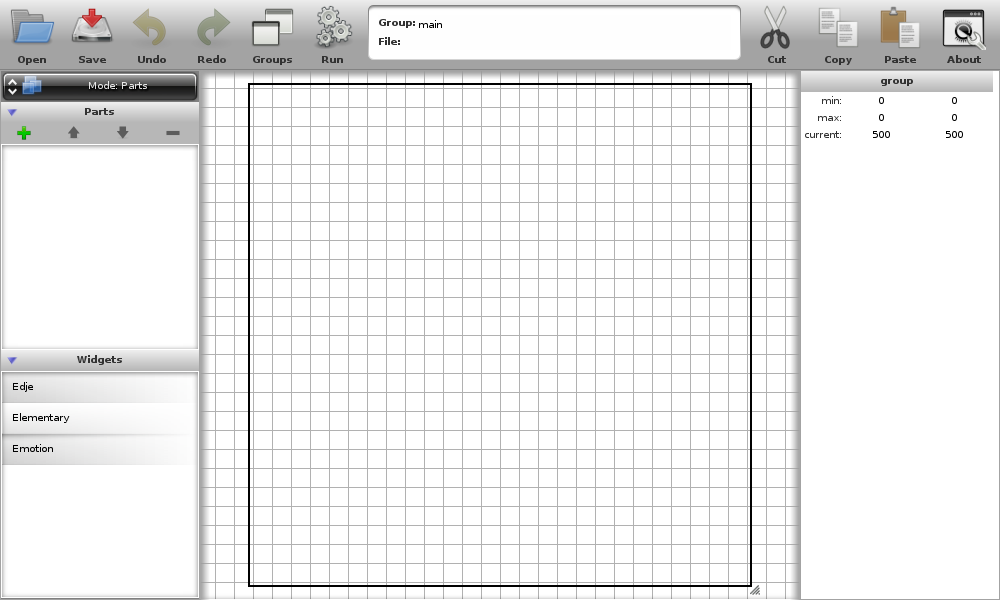
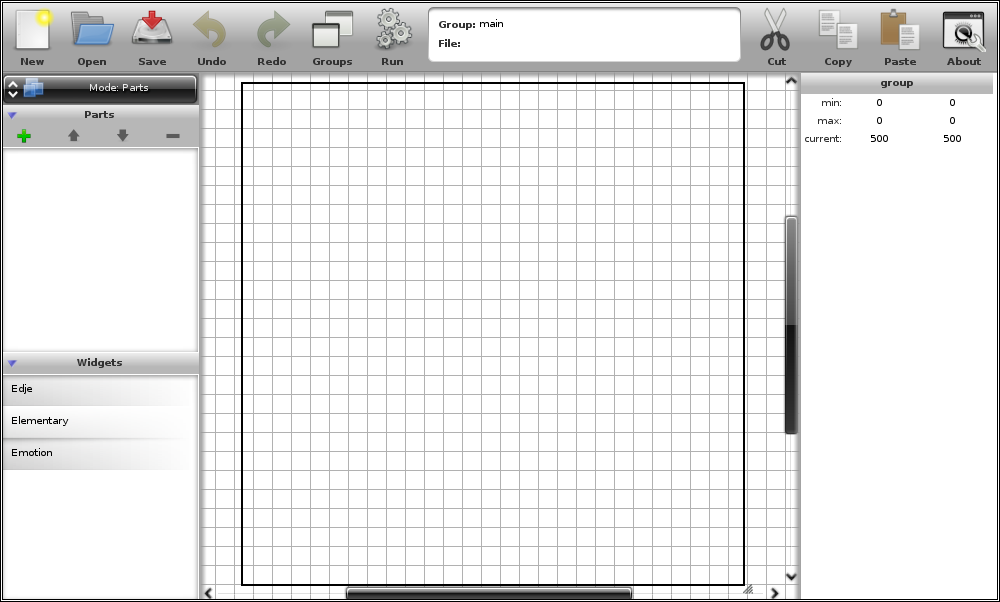
Batch of documentation fixes.
git-svn-id: http://svn.enlightenment.org/svn/e@55381 7cbeb6ba-43b4-40fd-8cce-4c39aea84d33

Changed region(s): [[0.0, 0.0, 1.0, 1.0], [0.93, 0.21, 0.961, 0.24], [0.868, 0.21, 0.899, 0.24]]

diff --git a/trunk/editje/doc/editje_manual.tex b/trunk/editje/doc/editje_manual.tex
@@ -52,7 +52,7 @@ pictured in figure \ref{fig:new_file}.
 \begin{figure}[h!]
   \centering
   \includegraphics[width=0.87\textwidth]{images/new_file.png}
-  \caption{``New file'' group main}
+  \caption{A new file and its group ``main''}
   \label{fig:new_file}
 \end{figure}
 
@@ -93,17 +93,20 @@ Finally, there's the button \GUIButton{``New''}, found in this
 dialog's first page. As you may imagine, it's going to lead you to a
 third page, asking for a name to the group to be created. From there,
 you may desist and go back one page or, if sure, create and start
-editing the fresh new group. This group will also be 500x500 sized and
-have no parts.
+editing the fresh new group. This group will also be 500$\times$500
+sized and have no parts.
 
 Finally, there is a third way of invoking Editje, which is:
 
 \begin{verbatim}
-editje-bin <filename>:<groupname>
+editje-bin <filename> <groupname>
 \end{verbatim}
 
 This is a shortcut to have it opened directly on the editing window,
 with the group named ``\texttt{groupname}'' selected for edition.
+
+Enter ``\texttt{editje-bin -h}'' in the command line for a thorough
+explanation of the the editor's usage.
 
 \section{Editje's Window}
 
@@ -125,7 +128,14 @@ them:
 
 \begin{description}
 \item[1 -- Actions on file and group] The first action,
-  \GUIIcon{``Open''}, will show the screen picture in \ref{fig:open_file}.
+  \GUIIcon{``New''}, will open a new Editje window, editing a fresh
+  new file, still residing in memory only. To the current date, this
+  new file starts with just one group, named ``main'', with no parts
+  and with a default size of 500$\times$500 pixels. Group templates
+  will come as an option to start new files, shortly.
+
+ The second action, \GUIIcon{``Open''}, will show the screen picture
+ in \ref{fig:open_file}.
   \begin{figure}[h!]
     \centering
     \includegraphics[width=0.87\textwidth]{images/open_file.png}
@@ -139,32 +149,27 @@ them:
   \GUICheckbox{``filter extensions''} checkbox will only list files
   whose extension match \texttt{.edc} or \texttt{.edj}.
 
-  %FIXME: the fscking \times, instead of 'x' (not working)
   If a (valid) file on the list on the right is selected, you may click
   the \GUIButton{``Ok''} button and Editje will open it and lead you to
-  its main window. The \GUIButton{``New''} button will ask you for a
-  name to a \emph{new} file to work on. Just give it a name and hit
-  \GUIButton{``Ok''} to start editing it. To the current date, this new
-  file starts with just one group, named ``main'', with no parts and
-  with a default size of 500x500 pixels. Group templates will come as an
-  option to start new files, shortly.
+  its main window.
 
   When you select the file to operate on, you'll get \emph{another}
-  independent instance of a main window with an opened file. It's
+  independent instance of a main window with an opened file. In both
+  this case and the \GUIIcon{``New''} button one, the new window is
   \emph{not} another instance of the editor, though, and the process
   will only finish when the last editor's window is closed.
 
-  The second action, \GUIIcon{``Save''}, naturally tells the editor to
-  save back the modifications on the file under edition.
-  If you are editing new file, the save action
-  \GUIIcon{``Save''}, will show the screen picture in \ref{fig:save_file}.
+  The third action, \GUIIcon{``Save''}, naturally tells the editor to
+  save back the modifications on the file under edition. If you are
+  editing a new file, the action will lead you to the dialog depicted
+  in figure \ref{fig:save_file}.
   \begin{figure}[h!]
     \centering
     \includegraphics[width=0.87\textwidth]{images/save_file.png}
     \caption{``Save file'' dialog}
     \label{fig:save_file}
   \end{figure}
-  If the file being edited is a already existing opened file, as said
+  If the file being edited is an already existing file, as said
   before, they get saved in the same format they were opened with, be
   it \texttt{.edc} or \texttt{.edj}, and no dialog is shown.
 
@@ -175,8 +180,6 @@ them:
   this stage it \emph{won't} ask if you want to save the modifications
   on the group being left, so make sure you have them saved before
   switching groups.
-
-% undo/redo
 
   The next two actions do what is expected: \GUIIcon{``Undo''} and
   \GUIIcon{``Redo''} actions you took while editing your
@@ -270,10 +273,10 @@ be described better on section \ref{sec:part_editing}.
   lists all the parts composing the group being edited and has also
   some actions on them. These actions will be described better later
   in the document. On the bottom of this area, one sees the \emph{list
-    of available widgets/parts}. From this place, you'll see all types
-  of GUI elements Editje supports. Interaction with this list is one
-  of the ways of telling the editor to add new widgets to the group
-  under edition.
+    of available widgets/parts to populate groups}. From this place,
+  you'll see all types of GUI elements Editje supports. Interaction
+  with this list is one of the ways of telling the editor to add new
+  widgets to the group under edition.
 
 \end{description}
 
@@ -307,9 +310,10 @@ wish\footnote{Editje will complain only if that name belongs to
   another part already present on the group under edition.}. The
 ``External Widget'' type is special: it's a meta type which will let
 you select objects from external modules (exporting edje objects) as
-parts of your interface. Currently, the only module supported is
-Elementary, a widget library which has some of its widgets with
-properties externalized to edje-edition.
+parts of your interface. Currently, the only two modules supported are
+\emph{Elementary}, a widget library which has some of its widgets with
+properties externalized to edje-edition, and \emph{Emotion}, which
+provides an element for media playback.
 
 Then, if you click over \GUIButton{``External Widget''}, the bottom
 part of the dialog box will show two lists side-by-side. The left one
@@ -343,11 +347,10 @@ you'll see it populated with our new part.
   \label{fig:new_rectangle}
 \end{figure}
 
-%FIXME: the fscking \times, instead of 'x' (not working)
 The region with number 4 is the actual new rectangle object. By
 default, Editje will put it centered in the group's region, with half
-of its size and colored with transparent green, as seen on region 7,
-the ``part state'' collapsable property group (check out the
+of its size and colored with solid white, as seen on region 7, the
+``part state'' collapsable property group (check out the
 \GUILabel{``current''} and \GUILabel{``align''} labels). Note that all
 the collapsable property groups are expanded on figure
 \ref{fig:new_rectangle}.
@@ -356,7 +359,9 @@ Note, also, the eight black squares over \texttt{Rectangle01}'s
 corners. They, together with the fact that \texttt{Rectangle01} is
 highlighted in the parts list, mean that that specific object is
 \emph{selected} in Editje. These squares are also where the user is
-going to click to visually \emph{resize} the selected object.
+going to click to visually \emph{resize} the selected
+object\footnote{Note how the mouse cursor changes while over those
+  squares, indicating this action.}.
 
 The four squares on the \emph{middle of the part's edges}, when
 clicked and dragged, will grow or shrink it on the perpendicular axis
@@ -589,6 +594,9 @@ figure \ref{fig:overlap_white}.
   \label{fig:overlap_clipped}
 \end{figure}
 
+%TODO: document ``scale'' property, take new screenshot involving the
+%part properties collapsable group
+
 To finish the ``part properties'' collapsable group, we have the
 \GUIEditable{``mouse events''} and \GUIEditable{``repeat events''}
 properties. These are true/false ones which will set the same
@@ -640,7 +648,7 @@ being resized.
   \label{fig:rectangle_rel1rel2}
 \end{figure}
 
-Roughly, properties seem inside regions 3, 4 and 5 have the exact
+Roughly, properties seen inside regions 3, 4 and 5 have the exact
 meaning of the homonymous building blocks found in \texttt{.edc}
 files.  Their meanings should be straightforward to readers with a
 minimal prior knowledge of Edje Data Collections. If you're not
@@ -650,7 +658,7 @@ the ones willing to skip it, we quote that text's part on object
 relative positioning on appendix \ref{app:edje_pos}.
 
 Figures \ref{fig:visibility_false} to \ref{fig:rel_drag} illustrate
-some effects one gets by modifying some of the properties seem on
+some effects one gets by modifying some of the properties seen on
 figure \ref{fig:part_state_group}.
 
 \begin{figure}[h!]
@@ -720,7 +728,7 @@ the name of the just created state displayed. Customize its properties
 as you wish, then.
 
 Starting from the state where we have our default
-``\texttt{Rectangle01}'' (figure \ref{fig:new_rectangle01}), let's
+``\texttt{Rectangle01}'' (figure \ref{fig:new_rectangle}), let's
 create another state, for which we change the red channel of the
 part's color to 255, making it transparent yellow (see figure
 \ref{fig:new_state}).
@@ -732,12 +740,19 @@ part's color to 255, making it transparent yellow (see figure
   \label{fig:new_state}
 \end{figure}
 
+\begin{figure}[h!]
+  \centering
+  \includegraphics[width=0.28\textwidth]{images/state_actions.png}
+  \caption{State actions}
+  \label{fig:state_actions}
+\end{figure}
+
 Then, click on the state selection icon again and select, in the list,
 the state ``\texttt{default 0.0}''. You'll be presented with the
 dialog seen on figure \ref{fig:state_actions}. The \GUIButton{``Change
   to''} button, naturally, is the way to switch to the selected state.
 \GUIButton{``Reset to''} will copy all the properties of the selected
-state into the same ones of the \emph{current} one. If you choose to
+state into the same ones of the \emph{current} state. If you choose to
 click on it from the example we suggested for this section, you'll see
 state ``\texttt{default01 0.0}'' have its color property reset to
 transparent green. Finally, \GUIButton{``Delete''} will remove the
@@ -788,13 +803,45 @@ text parts, called \GUILabel{``text''} (region 2 in figure
 
 \begin{description}
 \item[\GUIEditable{``text''}:] The actual text to display.
-\item[\GUIEditable{``font''}:] The font to render the text from.
+\item[\GUIEditable{``font''}:] The font to render the text from. You
+  may type in directly the font family's name in the entry in the
+  left, or choose it through a dialog by clicking over the ``Aa''
+  icon. The latter will present you the \emph{font addition wizard},
+  whose screen is seen in figure \ref{fig:font_dialog_choose}. There
+  will be two lists:
+  \begin{description}
+    \item[Embedded fonts] Fonts which are, naturally, embedded in the
+      file under edition.
+    \item[System Fonts] Fonts made available by your operating system.
+  \end{description}
+  If you select any item from either list, you'll get to a \emph{font
+    preview} page in the wizard, depicted in figure
+  \ref{fig:font_preview}. One can only delete embedded fonts,
+  naturally, when they will be taken away completely from the file. To
+  select the font in question to the text part you called the dialog
+  from, hit the \GUIButton{``Use''} button. The \GUIButton{``Add
+    New''} button one sees on the previous page leads you to a file
+  choose dialog similar to the ones we've seen so far in Editje. After
+  you choose a file, that font will be copied into the file under
+  edition itself.
 
-%TODO: introduce the fonts wizard, when it's complete
+\begin{figure}[h!]
+  \centering
+  \includegraphics[width=0.8\textwidth]{images/font_selection.png}
+  \caption{Font selection}
+  \label{fig:font_dialog_choose}
+\end{figure}
+
+\begin{figure}[h!]
+  \centering
+  \includegraphics[width=0.8\textwidth]{images/font_preview.png}
+  \caption{Font preview}
+  \label{fig:font_preview}
+\end{figure}
 
 \item[\GUIEditable{``size''}:] The text size.
 \item[\GUIEditable{``fit''}:] When any of these entries is set to
-  ``True'', Editje will resize the text, so that it to fits in it's
+  ``True'', Editje will resize the text, so that it fits in its
   container, in the respective axis (the \GUIEditable{``size''} is
   ignored, if this property is enabled). Both are disabled by default.
 \item[\GUIEditable{``align''}:] Changes the alignment of the actual
@@ -886,24 +933,25 @@ practically the same as of rectangle parts.
 
 Group parts also aggregate child edje objects, but in a ``hardcoded''
 manner: one does it while declaring an interface and that ``hole'''s
-contents \emph{can't} be swapped at run time. Editje, currently,
-displays nicely group parts it finds inside the files it was opened
-with, but its management capabilities on group parts is minimal (just
-moving, resizing, etc) and it won't create \emph{new} group parts.
+contents \emph{can't} be swapped at run time. When you insert a new
+group part, just type the name of the inner group you want to put
+inside at the \GUILabel{``source''} property, seen at part properties
+for group parts.
 
 \subsection{External Widgets: Elementary}
 %FIXME: explain briefly what each kind of widget is/does!
 
-By now, Elementary is the only external module whose widgets have been
-made available to edje-edition as common part objects. Region 6 of
-figure \ref{fig:new_rectangle}, the list of available widgets/parts,
-is a quick way of adding these widgets into the group. The ``Edje''
-entry of that list will lead to a list of the ``common'' UI elements
-one gets -- the ones implemented directly on the evas or edje
-libraries. The ``Elementary'' one, naturally, will list (some) widgets
-provided by that library (see figure \ref{fig:elm_widgets}). Each list
-entry has an icon illustrating the respective widget. Clicking over
-one of them will add that kind of object to the group under edition.
+Elementary, as said before, is one external module whose widgets have
+been made available to edje-edition as common part objects. Region 6
+of figure \ref{fig:new_rectangle}, the list of available
+widgets/parts, is a quick way of adding these widgets into the
+group. The ``Edje'' entry of that list will lead to a list of the
+``common'' UI elements one gets -- the ones implemented directly in
+the Evas or Edje libraries. The ``Elementary'' one, naturally, will
+list (some) widgets provided by that library (see figure
+\ref{fig:elm_widgets}). Each list entry has an icon illustrating the
+respective widget. Clicking over one of them will add that kind of
+object to the group under edition.
 
 \begin{figure}[h!]
   \centering
@@ -913,9 +961,9 @@ one of them will add that kind of object to the group under edition.
 \end{figure}
 
 In what follows, we document the specific properties one finds for
-each of those widget parts. All of them have, as extra tabs in the
-property collapsable groups, one (and only one) common tab, which is
-named \GUILabel{``external''}.
+\emph{some} of those widget parts. All of them have, as extra tabs in
+the property collapsable groups, one (and only one) common tab, which
+is named \GUILabel{``external''}.
 
 \subsubsection{Button}
 
@@ -931,9 +979,12 @@ them:
   \item[\GUIEditable{``icon'':}] This is the icon object to be
     displayed over the button. Elementary's standard set of icons is
     supported and using them is accomplished by entering their name
-    strings in this entry. In figure \ref{fig:new_button}, we have
-    used the ``close'' one, which is that ``X''-like image.
-    %TODO: group parts supported as icon?
+    strings in this entry. Freedesktop.org (FDO) icon names are also
+    valid and the respective image lookup will take place in your
+    system. In figure \ref{fig:new_button}, we have used the ``close''
+    one, which is that ``X''-like image. Finally, other groups present
+    in the file under edition can have their names declared in this
+    property's entry and one gets it bound to the button's icon.
 \end{description}
 
 The part's type has also been highlighted: note that all external
@@ -959,7 +1010,6 @@ being them:
   \item[\GUIEditable{``icon''}:] Has also the meaning you are familiar
     with. In figure \ref{fig:new_checkbox}, we have used the ``file''
     one.
-    %TODO: group parts supported as icon?
   \item[\GUIEditable{``state''}:] This is a boolean property telling
     whether the checkbox should be at checked or unchecked
     state. Clicking on it would draw or erase the tip mark inside the
@@ -1008,8 +1058,6 @@ being them:
 \end{figure}
 
 \subsubsection{Text Entry}
-%FIXME: "text:" property was killed from editje. not updating 'till it gets
-%fixed
 
 Figure \ref{fig:new_entry} shows a recently created text entry
 part. The part's specific properties are highlighted on the figure,

diff --git a/trunk/editje/editje/filewizard.py b/trunk/editje/editje/filewizard.py
@@ -288,7 +288,7 @@ class FontSelectionWizard(FileSelectionWizard):
             #if local is True, we'll get fonts from Edje
             #if local is False, we'll get fonts from System
             if local:
-                message = "Edje Fonts"
+                message = "Embedded Fonts"
                 self._edje_fonts = self._file_list_cb(local)
                 self._files += self._edje_fonts
             else:
@@ -312,7 +312,7 @@ class FontSelectionWizard(FileSelectionWizard):
                                             icon_get_func=None,
                                             state_get_func=None)
 
-        if item_data == "Edje Fonts":
+        if item_data == "Embedded Fonts":
             self._files = self._edje_fonts
         else:
             self._files = self._system_fonts
